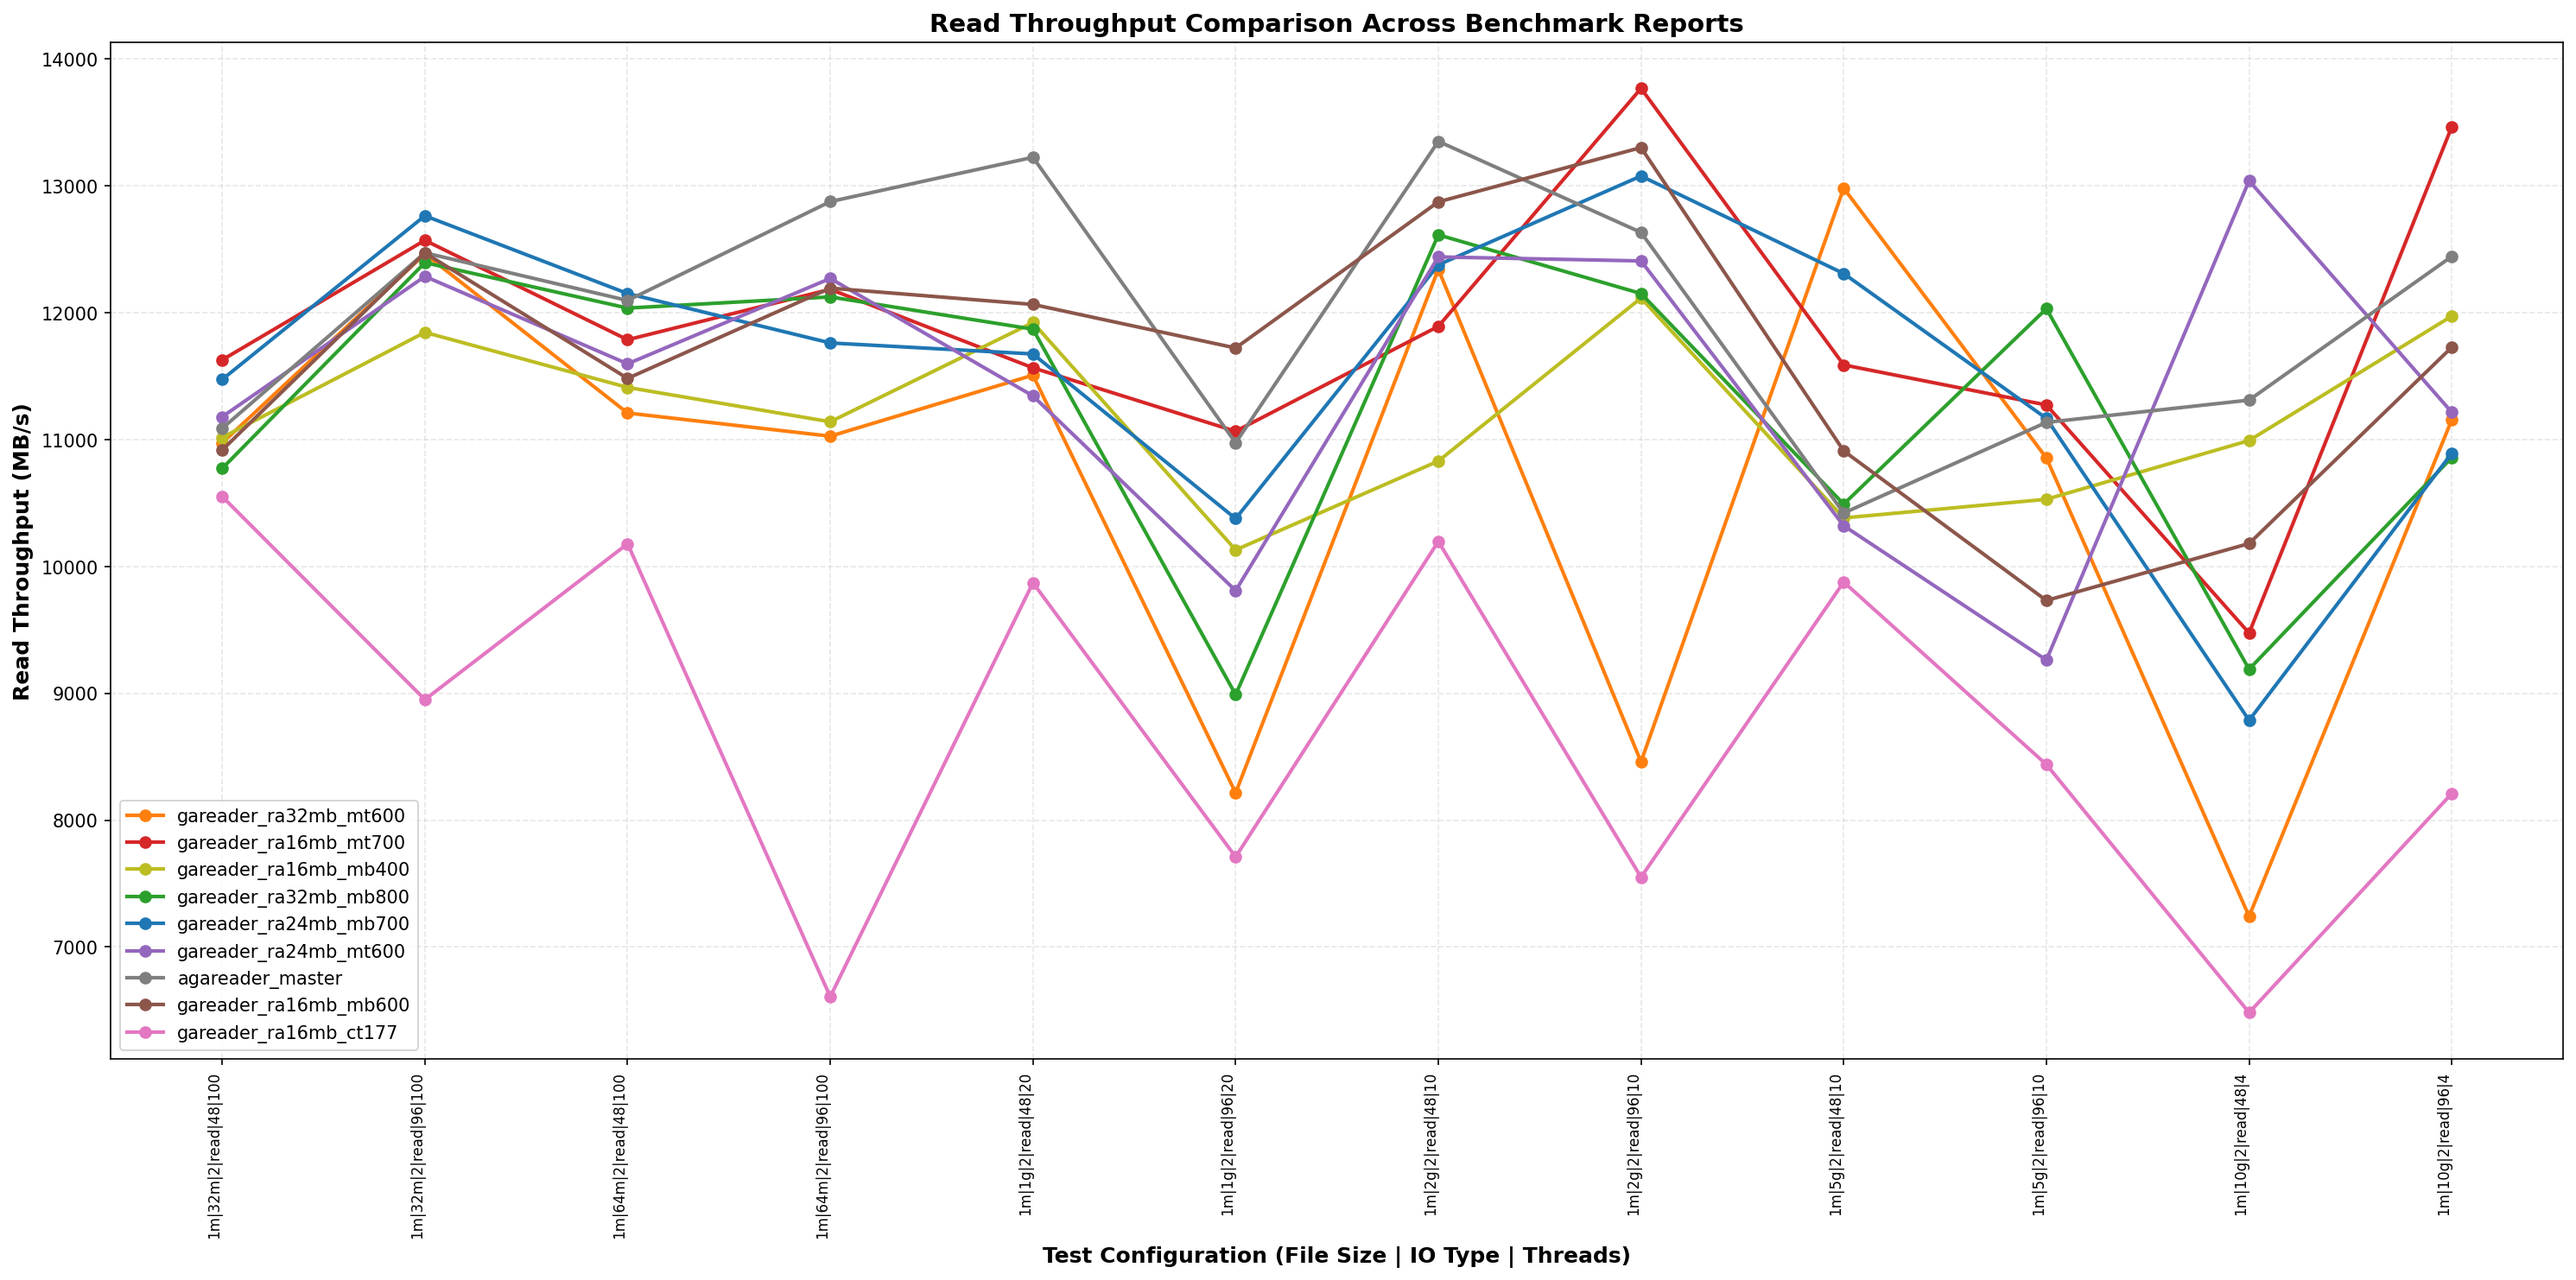
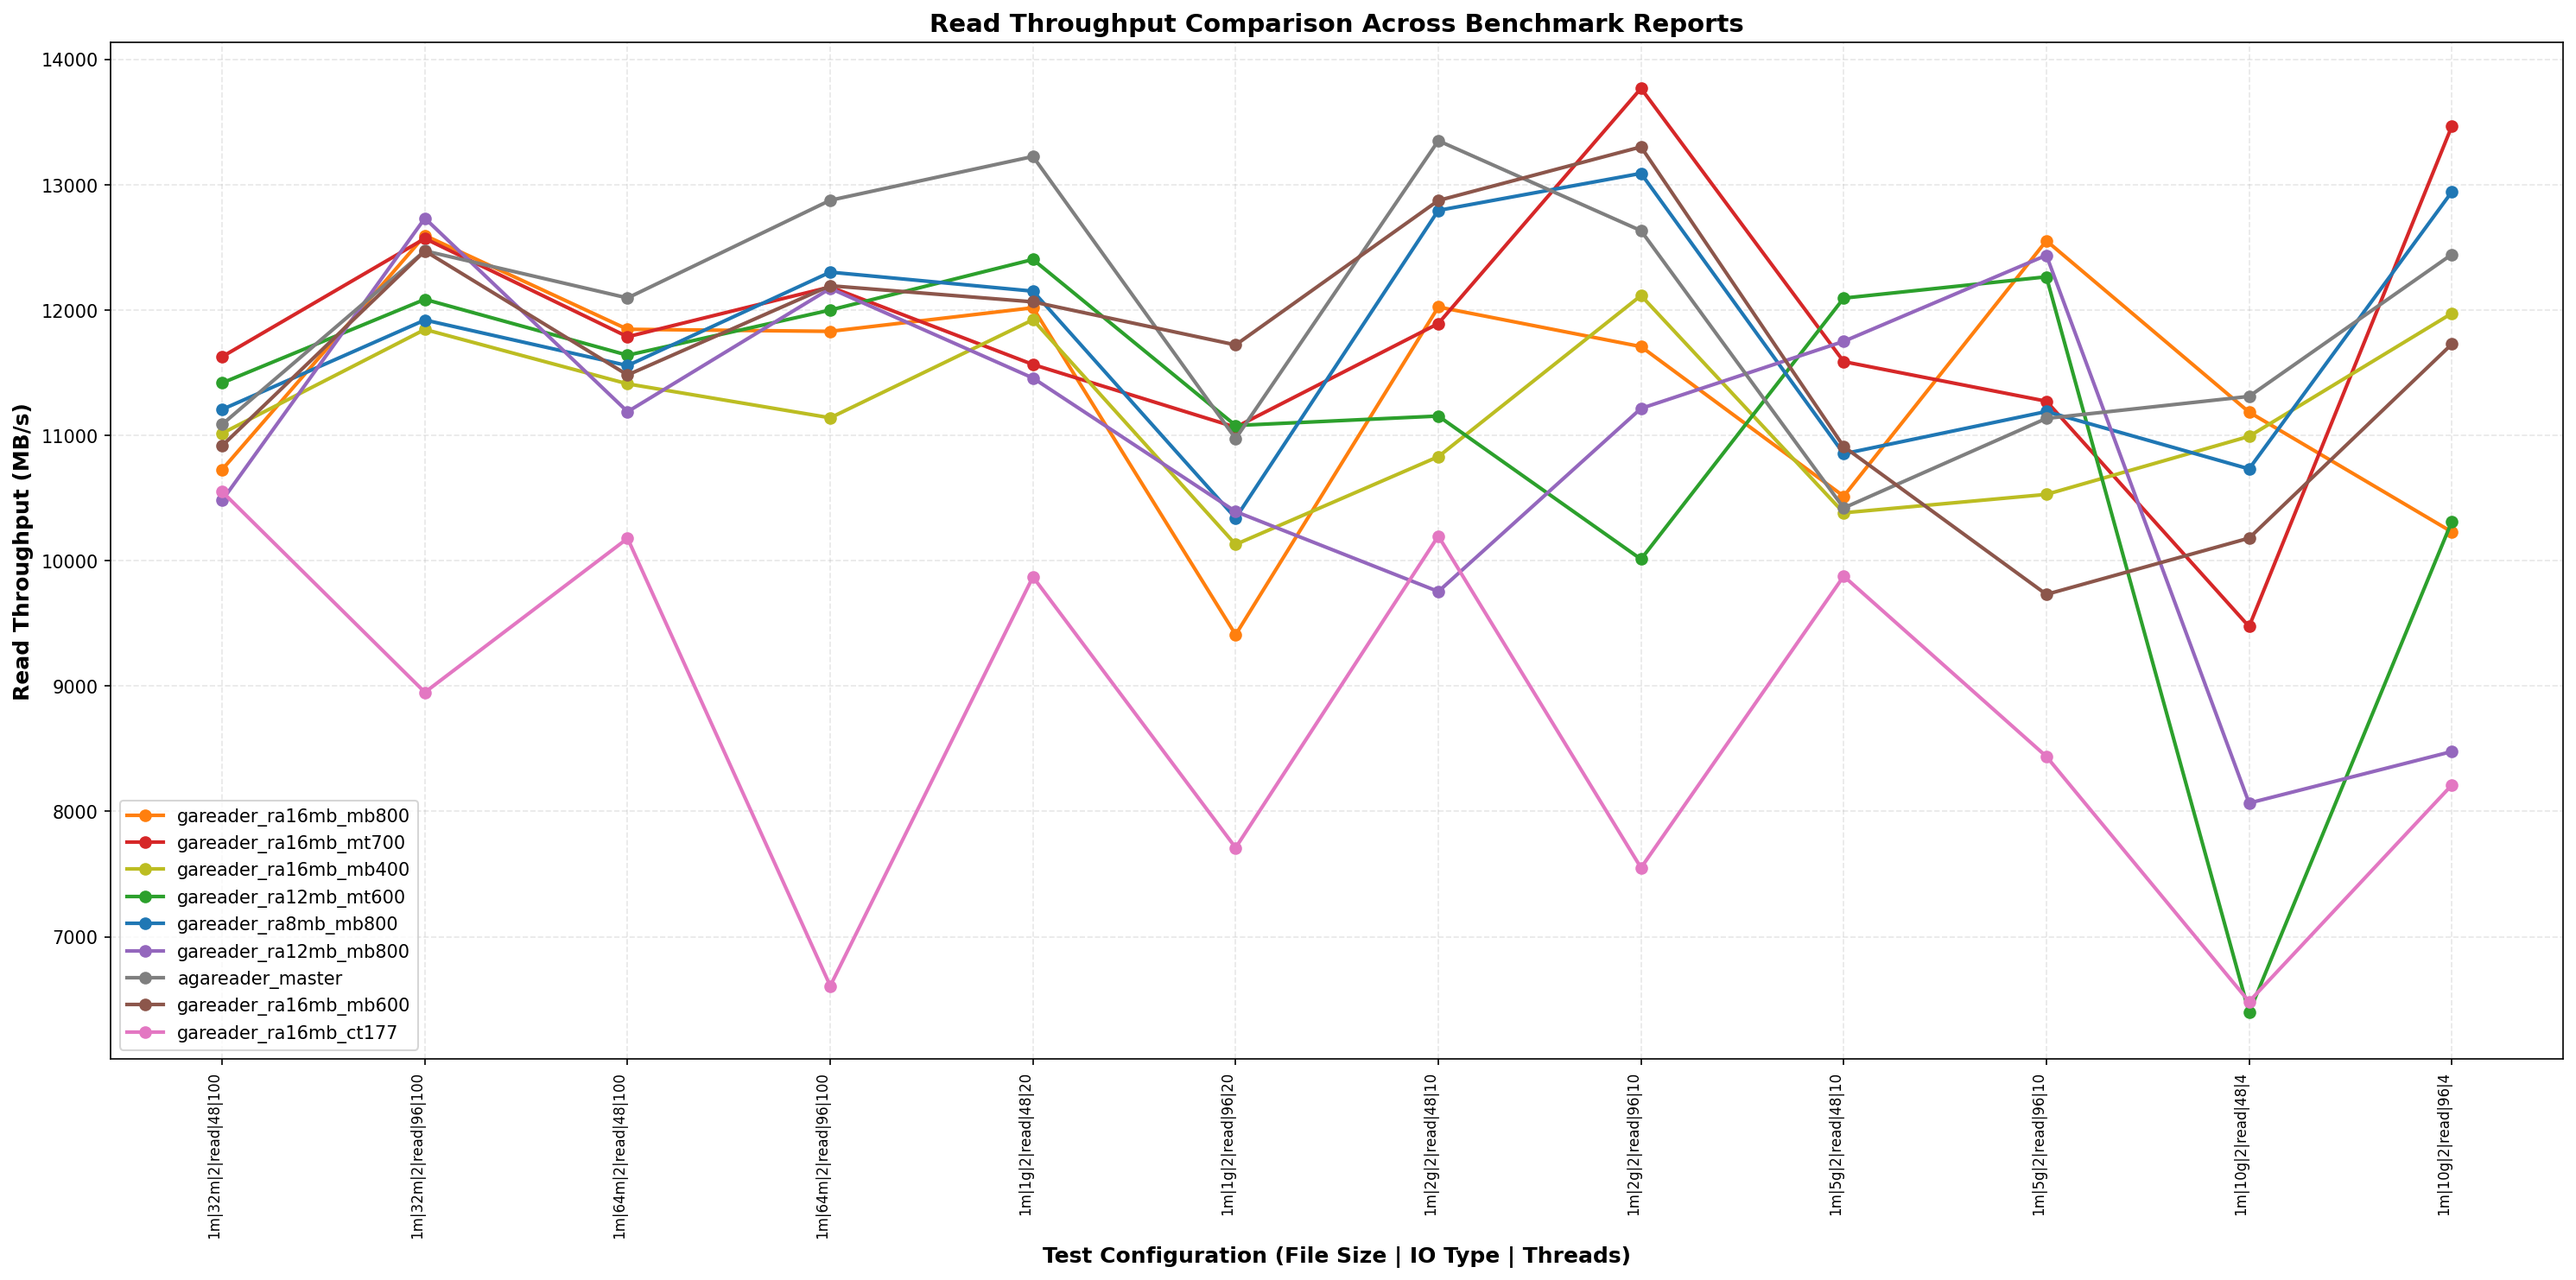
Adding more graphs for c4 vm

diff --git a/distributed-micro-benchmarking/plot_reports.py b/distributed-micro-benchmarking/plot_reports.py
@@ -48,7 +48,7 @@ def sort_key(param_str):
 
 def main():
     # Find all CSV files in good_reports directory
-    reports_dir = "good_results"
+    reports_dir = "c4-192-results"
     csv_files = glob.glob(os.path.join(reports_dir, "*.csv"))
     
     if not csv_files:
@@ -130,7 +130,7 @@ def main():
     plt.tight_layout()
     
     # Save and show plot
-    output_file = "reports/throughput_comparison.png"
+    output_file = "reports/c4-sequential-read-throughput.png"
     os.makedirs("reports", exist_ok=True)
     plt.savefig(output_file, dpi=150, bbox_inches='tight')
     print(f"\nPlot saved to: {output_file}")
